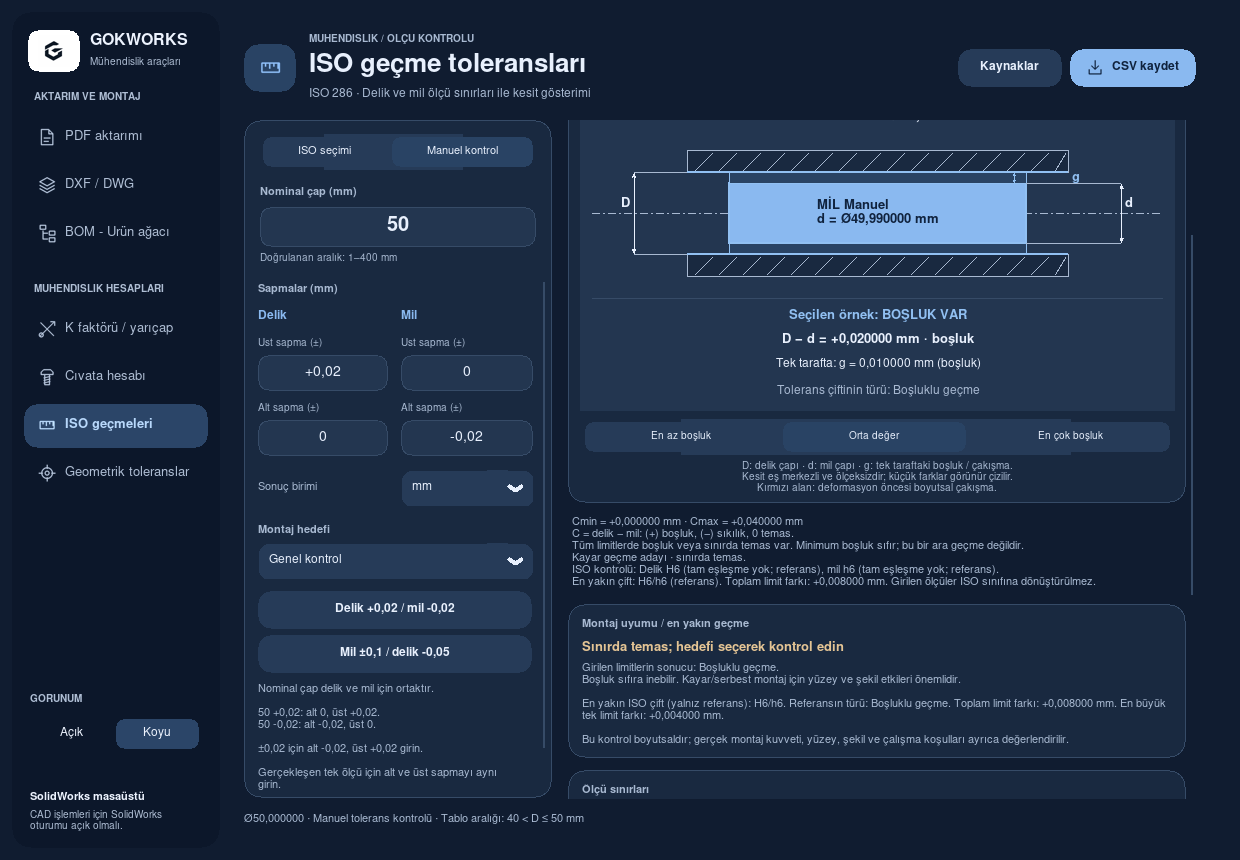
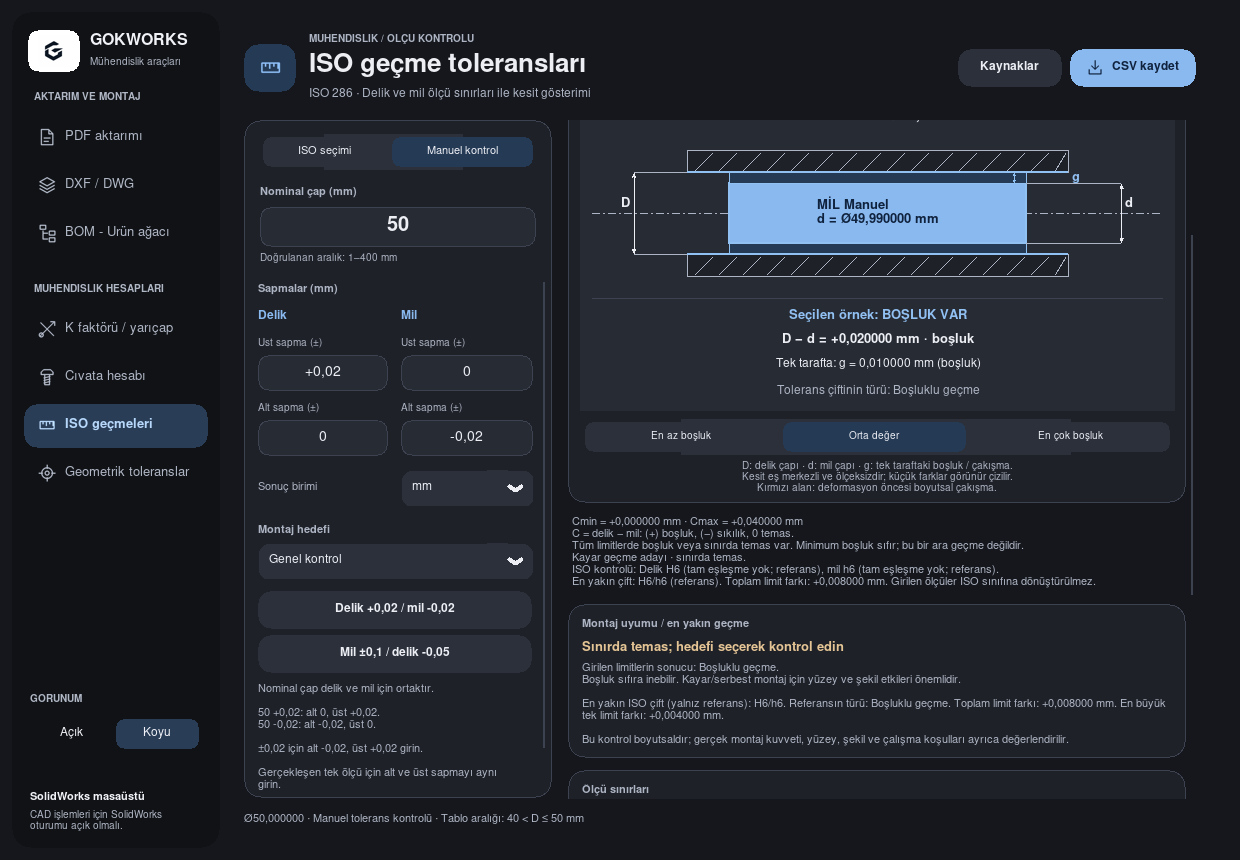
Keep dark mode neutral with charcoal surfaces and blue accents

diff --git a/gui/theme.py b/gui/theme.py
@@ -2,27 +2,27 @@
 
 import os
 
-BG = ("#F1F6FC", "#101C30")
-SIDEBAR = ("#F8FBFF", "#0C172A")
-PANEL = ("#FFFFFF", "#192940")
-INPUT = ("#F3F7FC", "#233650")
-BORDER = ("#DCE6F2", "#364B67")
-TEXT = ("#233955", "#E8F0FD")
-MUTED = ("#61738D", "#A8B9D1")
+BG = ("#F1F6FC", "#15171C")
+SIDEBAR = ("#F8FBFF", "#101216")
+PANEL = ("#FFFFFF", "#1E2128")
+INPUT = ("#F3F7FC", "#272B34")
+BORDER = ("#DCE6F2", "#3C424F")
+TEXT = ("#233955", "#ECEEF4")
+MUTED = ("#61738D", "#ADB4C3")
 ACCENT = ("#2F68AD", "#8AB9F0")
 ACCENT_HOVER = ("#25568F", "#A8CEF8")
-ACCENT_BG = ("#E7F0FC", "#294364")
+ACCENT_BG = ("#E7F0FC", "#253A55")
 PRIMARY_TEXT = ("#FFFFFF", "#10233E")
 SUCCESS = ("#2B6EAE", "#91C0F2")
 AMBER = ("#896018", "#E4C494")
 RED = ("#B23F52", "#F1A7B1")
-SECONDARY = ("#EAF1FA", "#263B58")
-HOVER = ("#DFEAF8", "#365273")
-NAV_TEXT = ("#2B4260", "#EDF3FE")
-NAV_MUTED = ("#61728B", "#AFBED4")
-NAV_ACTIVE = ("#E1EDFC", "#2B4568")
+SECONDARY = ("#EAF1FA", "#2B303B")
+HOVER = ("#DFEAF8", "#353D4A")
+NAV_TEXT = ("#2B4260", "#F0F2F7")
+NAV_MUTED = ("#61728B", "#B0B7C5")
+NAV_ACTIVE = ("#E1EDFC", "#293D57")
 NAV_ACCENT = ("#285D98", "#B8D8FB")
-NAV_HOVER = ("#ECF3FC", "#233C5C")
+NAV_HOVER = ("#ECF3FC", "#272E39")
 UI_FONT = "Segoe UI" if os.name == "nt" else "Helvetica"
 MONO_FONT = "Consolas" if os.name == "nt" else "Courier"
 

diff --git a/docs/ui-preview/README.md b/docs/ui-preview/README.md
@@ -4,8 +4,8 @@
 
 13 Ekim 2026. Product Design ile mevcut masaüstü arayüzü revize edildi.
 Yedi çalışma alanı ortak başlık, simge, işlem alanı ve daha yumuşak kartlar
-kullanır. Açık temada beyaz ve açık mavi yüzeyler, koyu temada katmanlı
-lacivert yüzeyler vardır. Ana düğmeler, seçimler ve başarılı sonuçlar mavi
+kullanır. Açık temada beyaz ve açık mavi yüzeyler, koyu temada siyah ve
+koyu gri yüzeyler vardır. Ana düğmeler, seçimler ve başarılı sonuçlar mavi
 tonlarındadır. Menü seçimi 140 ms içinde yumuşakça değişir; içerik
 hemen kullanılabilir. Görseller çalışan Tk uygulamasından alındı;
 SolidWorks bağlantısı veya gerçek CAD çıktısı içermez.
@@ -72,6 +72,10 @@ sayfaların tema/tablo renklerinin yenilenmesi için **2 hedefli kontrol
 geçti**. Menü metninin açık temadaki kontrastı artırıldı. 31 ekran güncel
 paletle yeniden çekildi; hesaplama testleri ve EXE derlemesi çalıştırılmadı.
 [Tema kontrol çıktısı](blue-theme-checks.log).
+
+Koyu tema daha sonra nötr siyah/koyu gri yüzeylere çevrildi; mavi vurgular
+ve açık mavi tema korundu. 19 koyu ekran yenilendi ve metin kontrastı
+kontrolü geçti. [Koyu tema kontrol çıktısı](dark-theme-check.log).
 
 K/R kontrollerinde alt COM nesnelerinin çıkış parametreleri düzeltildi;
 programın kendi konfigürasyon değişikliği önceden kaydedilmemiş düzenleme
